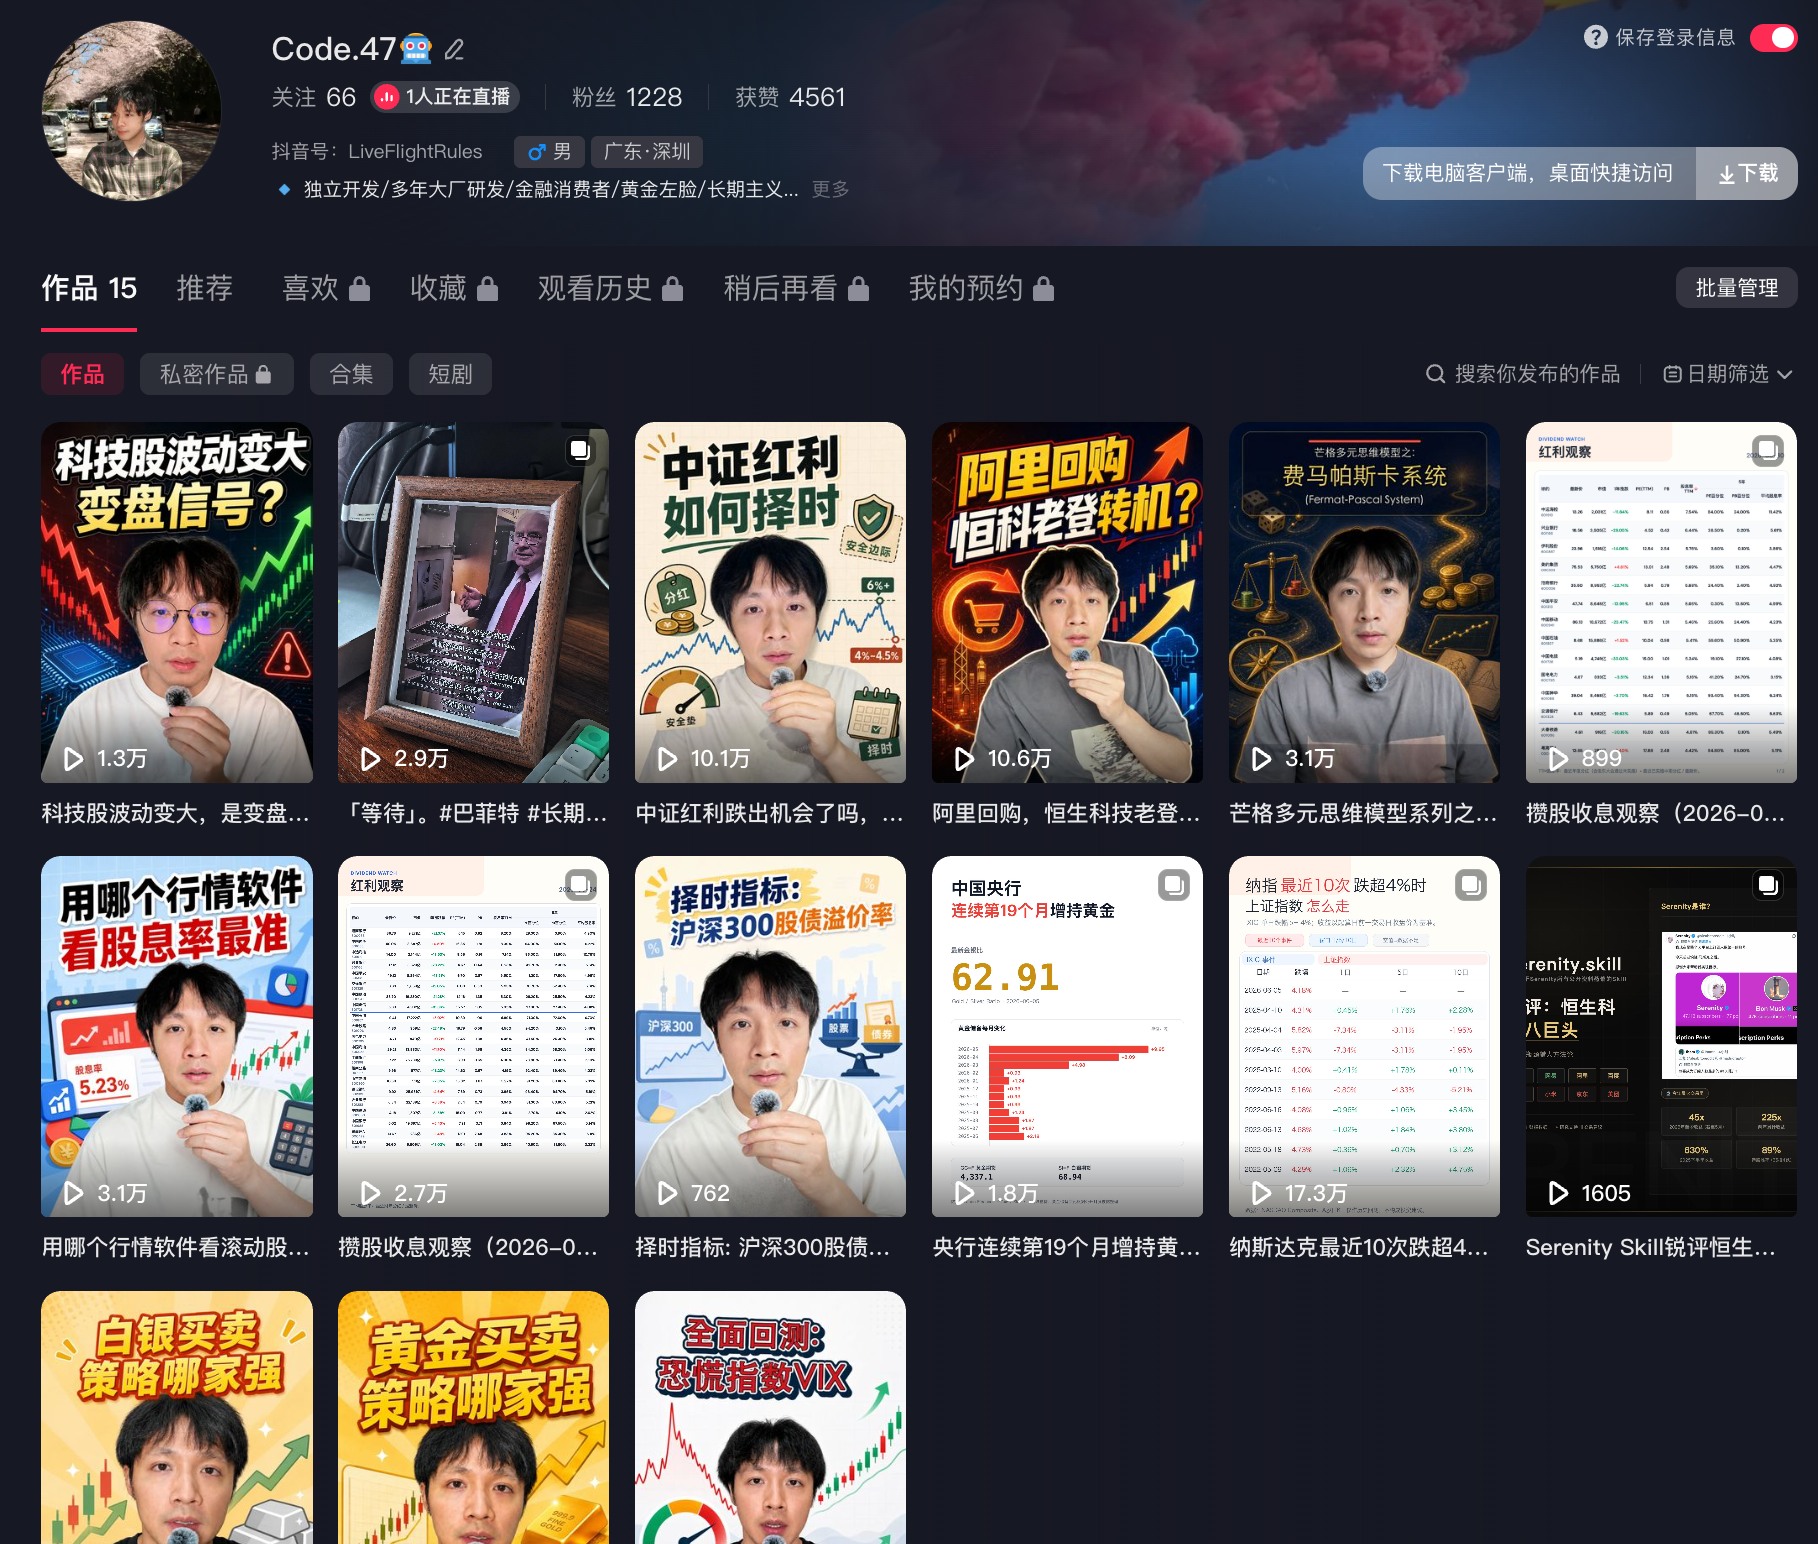
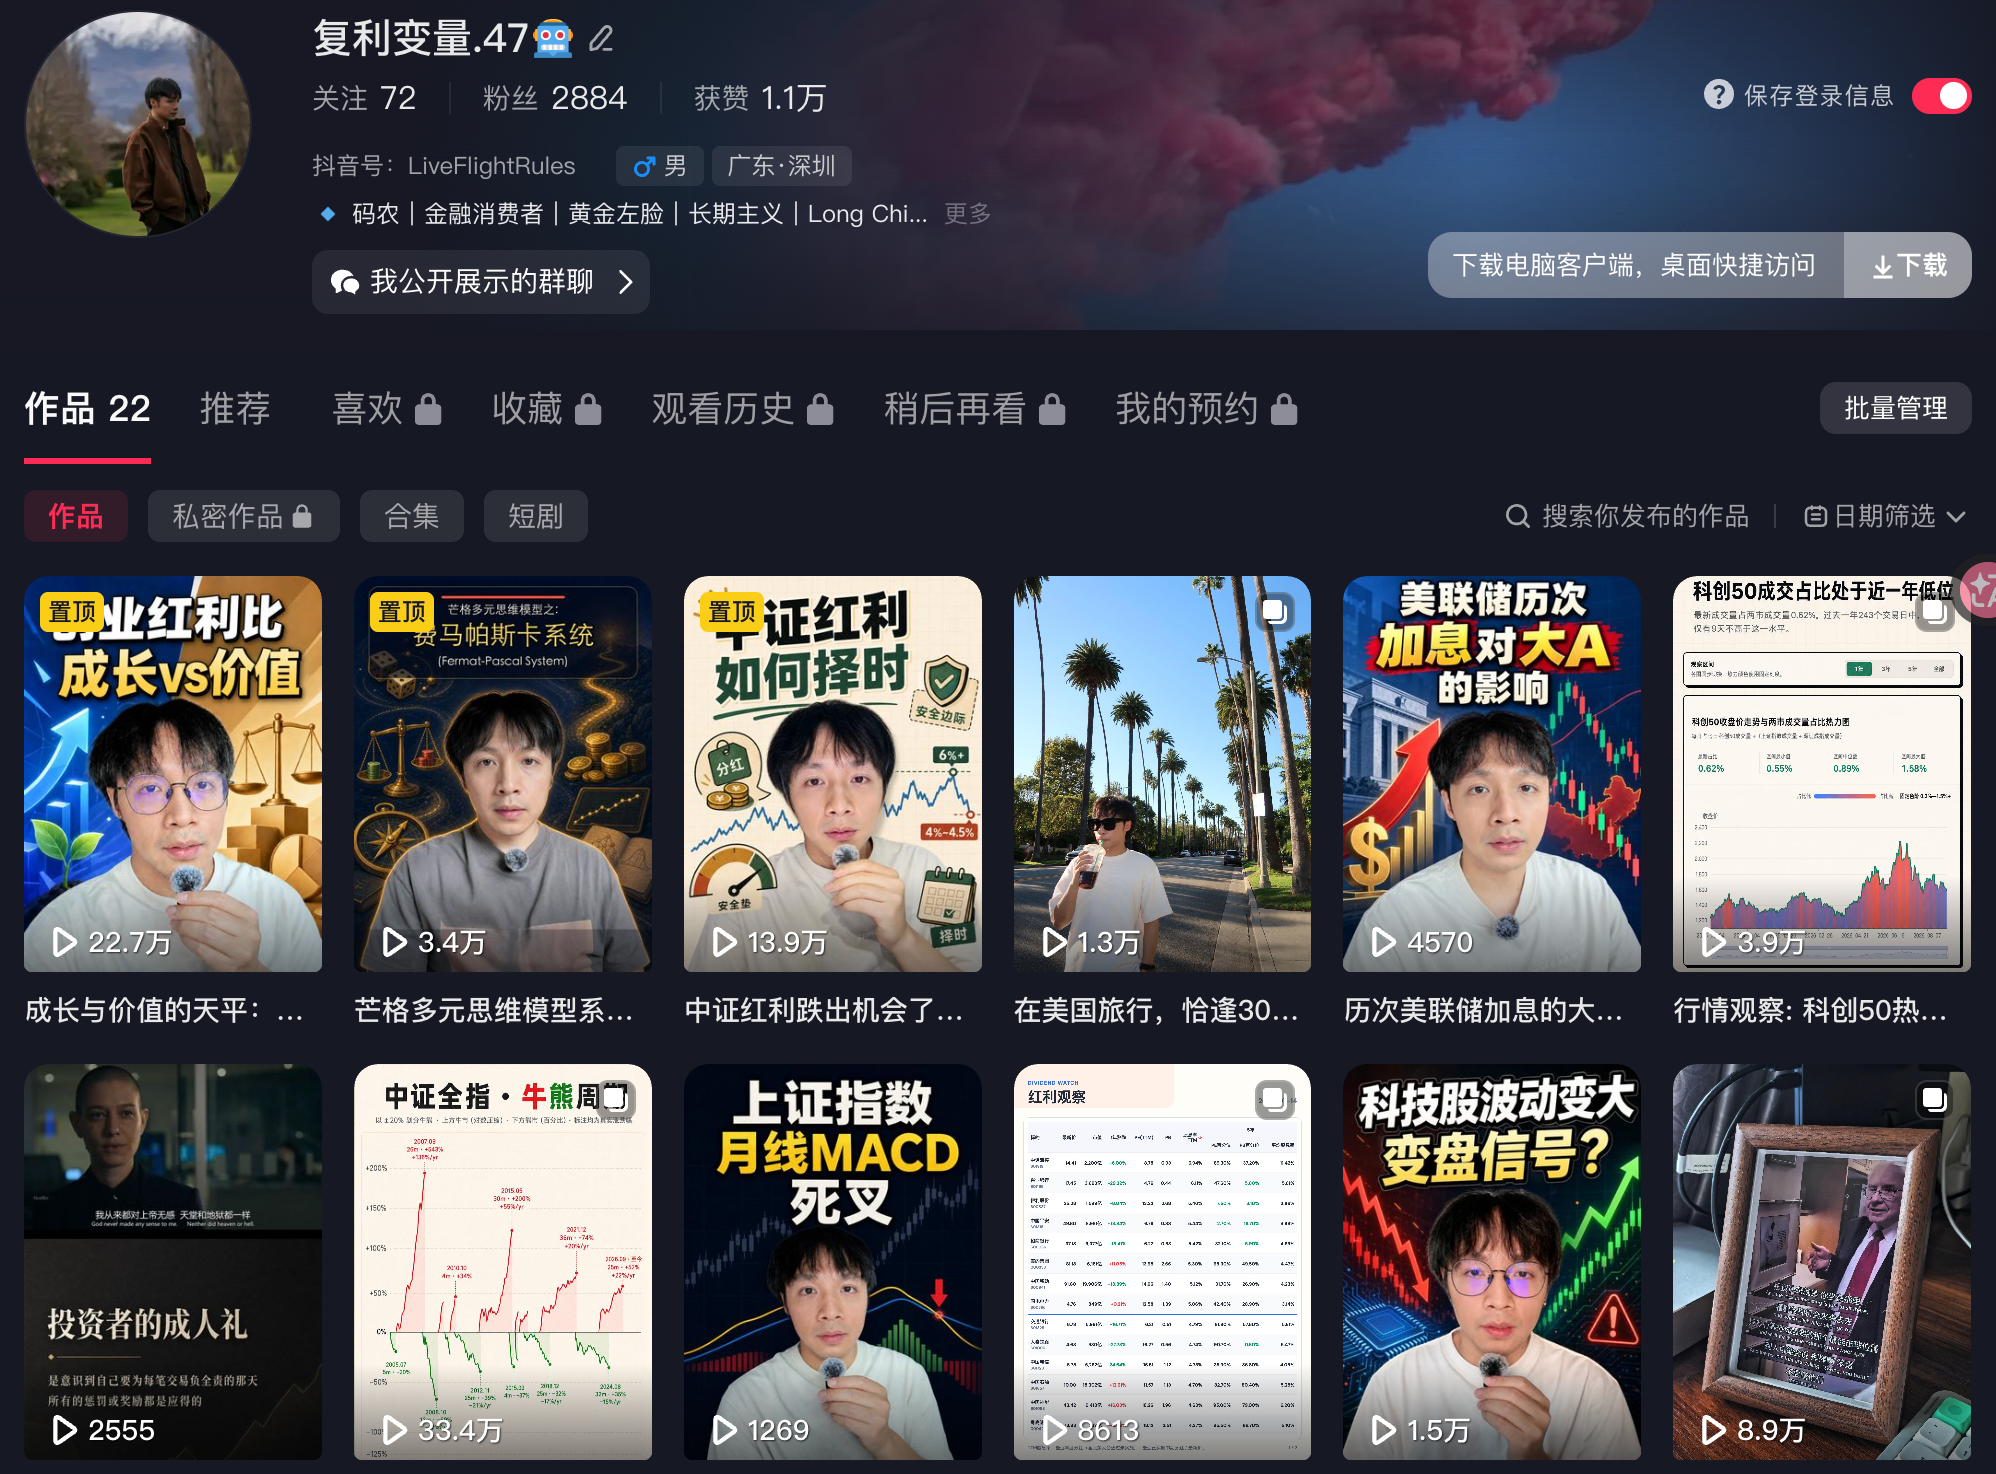
update

diff --git a/src/resumeData.ts b/src/resumeData.ts
@@ -79,7 +79,7 @@ export type ResumeData = {
 
 export const resume: ResumeData = {
   name: '黎思奇 · Dylan',
-  profile: ['31岁', '9年工作经验', '离职状态', '中山大学本科(软件工程)', '优才获批'],
+  profile: ['31岁', '9年工作经验', '离职状态', '中山大学本科(软件工程)', '香港优才获批'],
   target: 'Frontend Engineer (Web) / Fullstack Engineer',
   contact: [
     { label: '电话', value: '+86 17620754747', href: 'tel:+8617620754747' },
@@ -273,9 +273,9 @@ export const resume: ResumeData = {
     },
     {
       label: 'AI x 量化自媒体',
-      value: '抖音号：LiveFlightRules [7.15 update: 禁言30天申诉中] ｜ 小红书号: 95139989818',
+      value: '抖音号：LiveFlightRules ｜ 小红书号: 95139989818',
       description:
-        '使用AI基于Next、Python、Node Server、Akshare、yfinance等技术栈，搭建包含数据采集与分析、web可视化、量化信号提醒等功能的量化回测项目，并将生成视频口播、封面和插图，以及量化分析等流程沉淀成skill提效，同时搭配indexTTS、Remotion Skill等AI工具，一个月涨粉1200+。',
+        '使用AI基于Next、Python、Node Server、Akshare、yfinance等技术栈，搭建包含数据采集与分析、web可视化、量化信号提醒等功能的量化回测项目，并将生成视频口播、封面和插图，以及量化分析等流程沉淀成skill提效，同时搭配indexTTS、Remotion Skill等AI工具，高效产出内容。',
       image: {
         src: liveFlightRulesImage,
         alt: 'LiveFlightRules 抖音主页截图',
